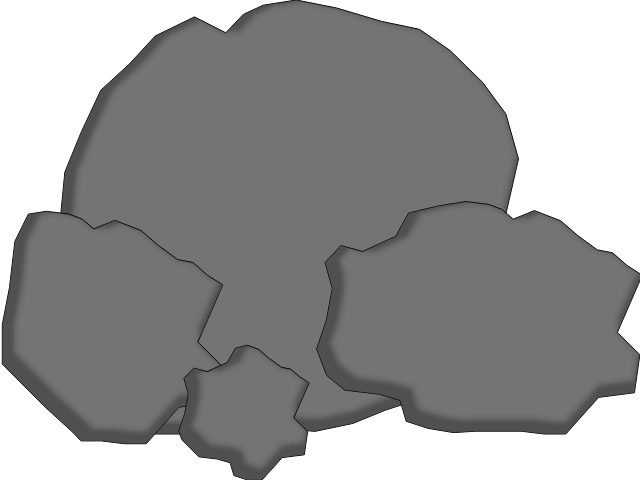
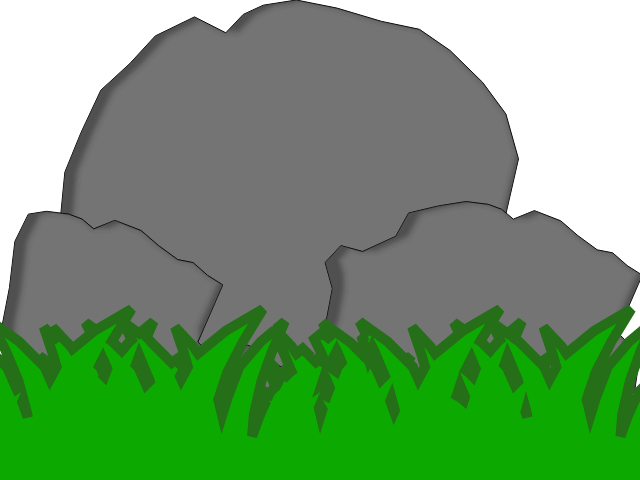
new rock images

diff --git a/components/background.py b/components/background.py
@@ -2,8 +2,11 @@ from kivy.properties import ObjectProperty
 from kivy.uix.widget import Widget
 from kivy.uix.image import Image
 from kivy.lang import Builder
+from kivy.vector import Vector
 
 from kivy.core.window import Window
+
+from math import log
 
 class Background(Widget):
     image_1 = ObjectProperty(Image())
@@ -12,9 +15,12 @@ class Background(Widget):
 
     def __init__(self, **kwargs):
         super(Background, self).__init__(**kwargs)
-        self.velocity = [-Window.size[0]/400., 0] #pxl*frame_rate
+        # self.velocity = [-Window.size[0]/400., 0] #pxl*frame_rate
+        self.base_velocity = Vector(-Window.size[0]/200., 0)
 
-    def update(self):
+    def update(self, score):
+        self.velocity = self.base_velocity * (1 + 0.05*log(1+10*score)/10)
+
         self.image_1.pos[0] = self.velocity[0] + self.image_1.pos[0]
         self.image_2.pos[0] = self.velocity[0] + self.image_2.pos[0]
         self.image_3.pos[0] = self.velocity[0] + self.image_3.pos[0]
@@ -25,6 +31,8 @@ class Background(Widget):
             self.image_2.pos = (self.image_1.right, 0)
         elif self.image_3.right <= 0:
             self.image_3.pos = (self.image_2.right, 0)
+
+
 
     def update_position(self):
         self.image_1.pos = (0, 0)
@@ -39,16 +47,16 @@ Builder.load_string("""
     Image:
         id: image_1
         allow_stretch: True
-        source: "images/background_4.png"
+        source: "images/background.png"
         size: root.height * self.image_ratio, root.height
     Image:
         id: image_2
         allow_stretch: True
-        source: "images/background_4.png"
+        source: "images/background.png"
         size: root.height * self.image_ratio, root.height
     Image:
         id: image_3
         allow_stretch: True
-        source: "images/background_4.png"
+        source: "images/background.png"
         size: root.height * self.image_ratio, root.height
 """)

diff --git a/components/obstacles/rock.py b/components/obstacles/rock.py
@@ -19,7 +19,7 @@ class Rock(Widget):
         self.width = (1+0.01*log(score+1))*uniform(0.85, 1.15)*Window.size[0]*0.15
         self.height = (1+0.01*log(score+1))*uniform(0.85, 1.15)*Window.size[1]/6.
 
-        self.base_velocity = Vector(-Window.size[0]/120., 0)
+        self.base_velocity = Vector(-Window.size[0]/200., 0)
         self.velocity = self.base_velocity * (1 + 0.05*log(1+10*score)/10)
 
         self.marked = False

diff --git a/JumpyKitten.py b/JumpyKitten.py
@@ -79,7 +79,7 @@ class JumpyKittenGame(Widget):
 
     def update(self, dt):
         self.mcnay.update(self.g_grav)
-        self.background.update()
+        self.background.update(self.score)
         # Loop through and update obstacles. Replace obstacles which went off the screen.
         furtherst_obstacle = -999999.
         for o in self.obstacles:

diff --git a/ToDo.md b/ToDo.md
@@ -1,4 +1,4 @@
-- add ranking page! This will be done with a google sheet
+- add ranking page! This will be done with a google sheet - nearly DONE
 - in settings page, add username for the user
 - Add iOS ads in gaming page
 - add new obstacles - done just missing drawing of bird
